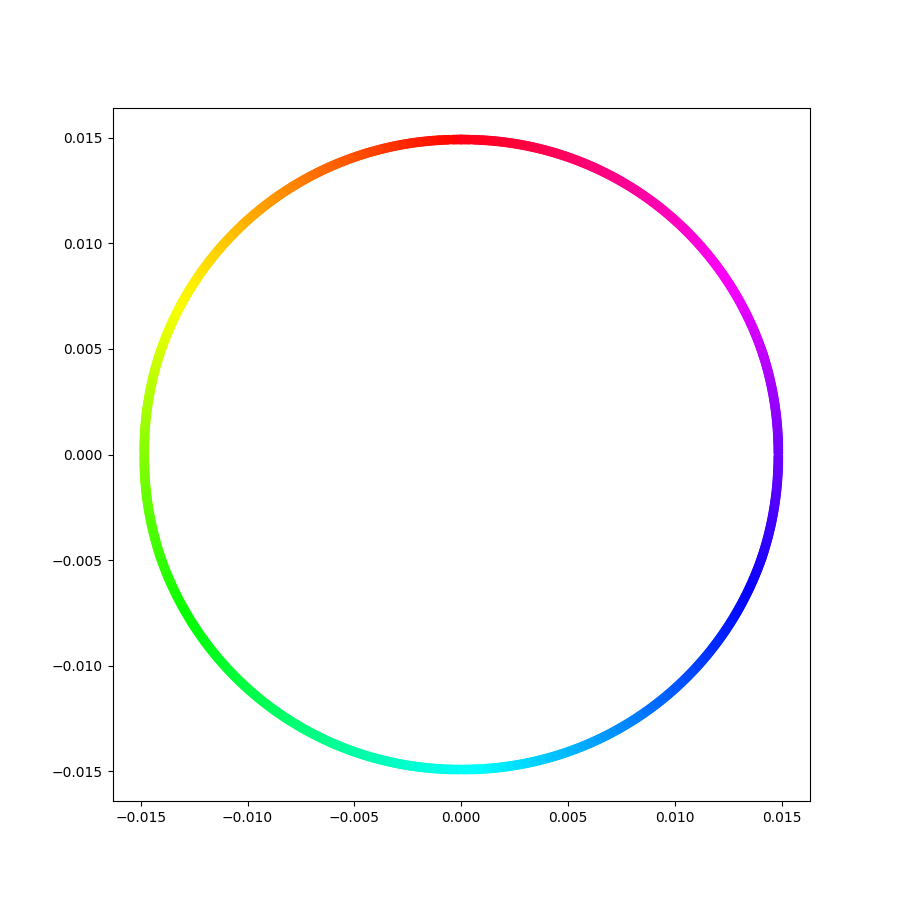
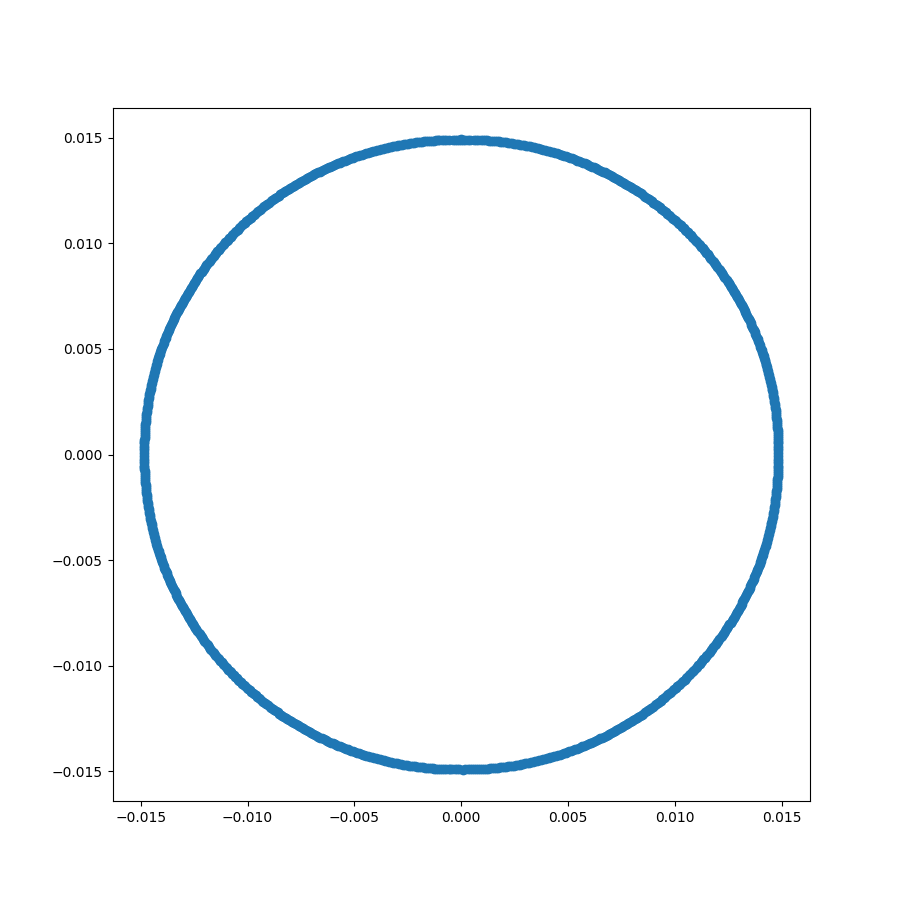
Co-authored-by: haskey1236 <haskey1236@users.noreply.github.com>

diff --git a/src/config.py b/src/config.py
@@ -5,6 +5,7 @@ from src.knot.trefoil import TrefoilSampler
 from src.knot.eight import EightSampler
 from src.knot.hoph import HophSampler
 from src.knot.hooph import HoophSampler
+from src.knot.random_trefoil import RandomTrefoilSampler
 
 @dataclass
 class BaseKnot:
@@ -51,4 +52,15 @@ HOOPH = BaseKnot(
     sampler_class=HoophSampler
 )
 
-KNOTS = [TREFOIL, EIGHT, HOPH, HOOPH]
+RANDOM_TREFOIL = BaseKnot(
+    knot_kind="random_trefoil",
+    sample_size=5000,
+    n_neighbors=5,
+    elev=60,
+    azim=75,
+    sampler_class=RandomTrefoilSampler
+)
+
+
+KNOTS = [TREFOIL, EIGHT, HOPH, HOOPH, RANDOM_TREFOIL]
+

diff --git a/src/knot/random_trefoil.py b/src/knot/random_trefoil.py
@@ -1,0 +1,14 @@
+import numpy as np
+
+from src.knot.core import Sampler
+
+class RandomTrefoilSampler(Sampler):
+    def __init__(self, sample_size: int):
+        self.sample_size = sample_size
+
+    def sample(self, var = 0.15):
+        t = np.random.uniform(0, 2*np.pi, self.sample_size)
+        x = np.sin(t) + 2*np.sin(2*t) + np.random.normal(0, var, self.sample_size)
+        y = np.cos(t) - 2*np.cos(2*t) + np.random.normal(0, var, self.sample_size)
+        z = -np.sin(3*t) + np.random.normal(0, var, self.sample_size)
+        return x, y, z
